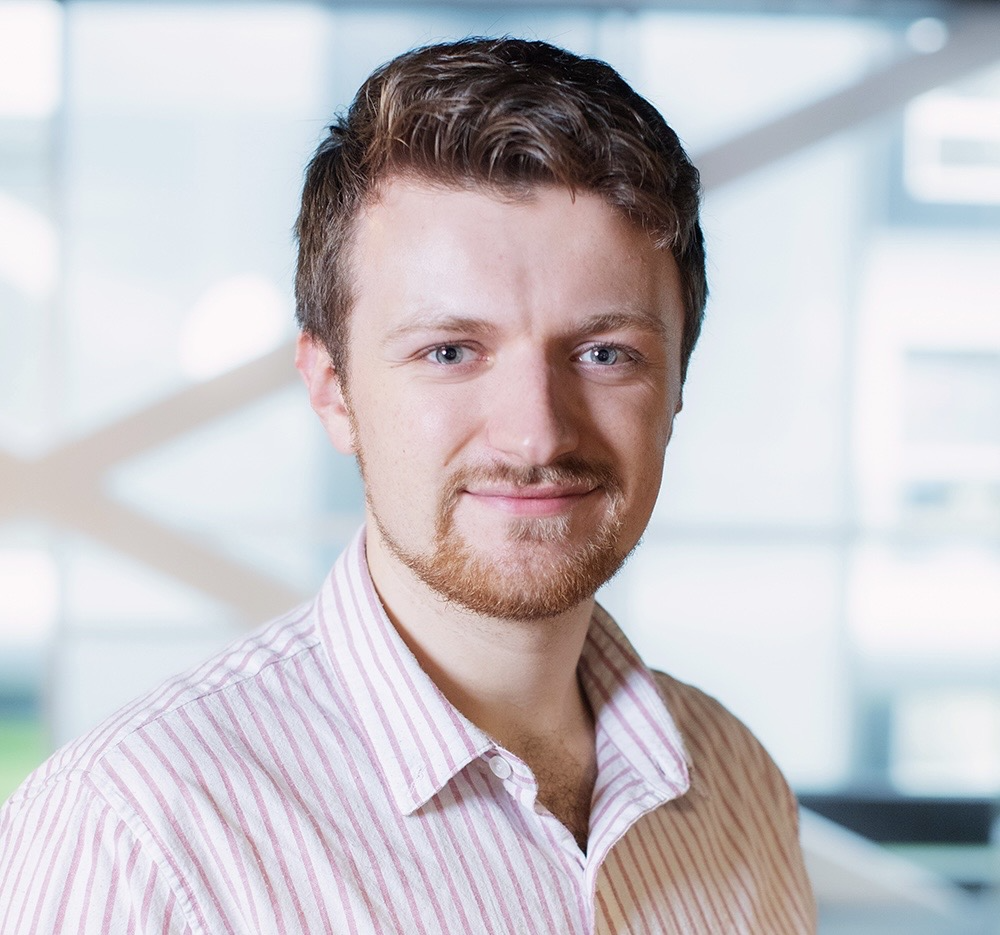
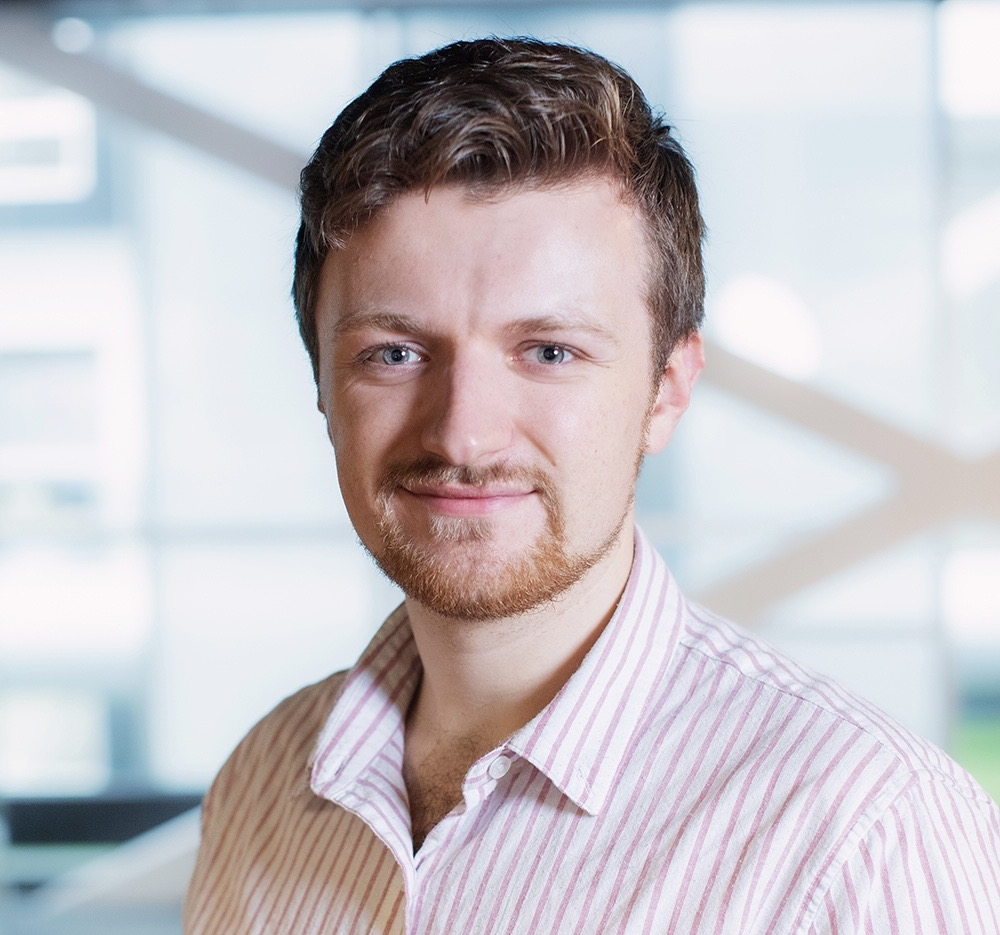
Fixed about page url link. Made external links open new tabs. Made about me page view.

diff --git a/templates/pages/about.html b/templates/pages/about.html
@@ -1,92 +1,167 @@
 <!DOCTYPE html>
 <html lang="en">
+{% extends "base.html" %}
 {% load static %}
 
-<head>
-  <meta charset="UTF-8">
-  <meta name="viewport" content="width=device-width, initial-scale=1.0">
-  <link rel="stylesheet" href="{% static 'pages/css/home.css' %}">
-  <link href="https://cdn.jsdelivr.net/npm/bootstrap@5.3.5/dist/css/bootstrap.min.css" rel="stylesheet"
-    integrity="sha384-SgOJa3DmI69IUzQ2PVdRZhwQ+dy64/BUtbMJw1MZ8t5HZApcHrRKUc4W0kG879m7" crossorigin="anonymous">
-  <title>Nathan Edwards</title>
-</head>
+{% block stylesheets %}
+<link rel="stylesheet" href="{% static 'pages/css/about.css' %}">
+{% endblock %}
 
-<body>
-  <header>
-    <div id="top-banner" class="d-flex align-items-center justify-content-between">
-      <div id="quick-bar-left" class="d-flex align-items-center justify-content-between">
-        <img id="bear-pic" src="{% static 'pages/img/bear.png' %}" />
-        <a href="{% url 'home' %}">Home</a>
-        <a href="https://en.wikipedia.org/wiki/Cocaine_Bear_(bear)">About</a>
-      </div>
-      <div id="quick-bar-right" class="d-flex align-items-center justify-content-between">
-        <a href="https://github.com/NathanEdwardsUK"><img id="github-logo"
-            src="{% static 'pages/img/github-logo.png' %}" />
-        </a>
-        <a href="https://www.linkedin.com/in/nathan-e-95155214b"><img id="linkedin-logo"
-            src="{% static 'pages/img/linkedin-logo.png' %}" /></a>
-      </div>
-    </div>
-  </header>
 
-  <main>
-    <div class="container-fluid py-4 px-0">
-      <h1>Nathan Edwards</h1>
-    </div>
-    <div class="container-fluid py-4 px-0">
-      <p>
-        Hello! I'm a software developer and former trader with 5 years experience working at top-tier
-        algorithmic-trading
-        firm Flow Traders.
-        I've been head of multiple desks, product owner of critical trading applications and a member of the Trader Tech
-        Team.
-        I specialised in designing, building and operating world-class higly-automated trading systems.
-        <br><br>
-        I strongly believe in the importance of continuous learning and I built this website both to demonstrate what I
-        know and as a learning project in itself to discover the wonders of web development.
-      </p>
-    </div>
-    <div class="container-fluid py-4 px-0">
-      <button class="btn rounded btn-light">
-        <a href="https://en.wikipedia.org/wiki/Cocaine_Bear_(bear)">About Me</a>
-      </button>
-    </div>
-    <div class="container-fluid py-4 px-0">
-      <div class="container-fluid py-4 px-0">
-        <h3>Projects:</h3>
+{% block main %}
+<main>
+  <div class="container-fluid py-4">
+    <h1>About Me</h1>
+  </div>
+  <div class="container-fluid py-4 px-0">
+    <div class="row">
+      <div class="d-flex col-md-4 order-md-2 pb-4 ml-2 justify-content-center" id="portrait-container">
+        <img id="portrait" src="{% static 'pages/img/portrait.png' %}">
       </div>
-      <div class="container-fluid py-2 px-2 border border-light rounded">
-        <p>Conway's Game of Life</p>
-        <div class="d-flex mb-3 justify-content-center" id="gol-canvas-container">
-          <canvas id="gol-canvas"></canvas>
-        </div>
-        <p>
-          Described as a "zero player game" by it's creator, mathematician John Conway,
-          the <a href="https://en.wikipedia.org/wiki/Conway%27s_Game_of_Life">Game of Life</a> composes of a grid of
-          cells, which are either dead or alive, and has a simple set of rules
-          which
-          decide whether each cell will be alive or dead in the next turn.<br><br>
-          Conway invented the game as a demonstration that simple rules and the right starting conditions
-          can lead to chaotic and even self replicating systems.<br><br>
-          As a mathematics undergrad I was fascinated by this concept. <a href="{% url 'sandbox' %}">Checkout my sandbox
-            implementation here</a>. You can play around with setting up your own patterns and seeing how the game
-          evolves, or choose from a dropdown list of amazing community discovered automata like the ones you see above.
+      <div class="col-md-8 order-md-1 py-0 align-items-center align-middle justify-content-center">
+        <p class="align-middle">
+          Former senior trader and product owner at top-tier algorithmic trading firm
+          with strong technical background. Skilled in designing, building and operating
+          world-class automated trading systems. After reevaluating my career goals I
+          decided to make societal benefit my primary professional priority. I am
+          looking for a software developer role at a dynamic, highly innovative company
+          with a compelling and impactful mission.
         </p>
       </div>
-
     </div>
-  </main>
+  </div>
 
-  <footer class="d-flex justify-content-center pt-5">
-    <div id="bottom-banner" class="d-flex flex-column align-items-center justify-content-between">
-      <p>Feel free to reach out!</p>
-      <div class="d-flex align-items-center justify-content-center">
-        <button class="btn rounded btn-light"><a href="{% url 'contact' %}">Contact</a></button>
+
+  <div class="container-fluid pb-4 px-0">
+    <div class="row">
+      <div class="col-md-8 order-sm-2 pb-4">
+        <div class="container-fluid py-0 px-4">
+          <!-- <h5><strong>Experience</strong></h5> -->
+          <div class="container-fluid px-0 py-2 justify-content-between">
+            <div class="experience-header d-flex">
+              <div class="company-logo-container">
+                <img id="flow-logo" src="{% static 'pages/img/flow-logo.jpeg' %}">
+              </div>
+              <div class="d-flex h-100 p-0 m-0 flex-column">
+                <strong class="m-0">Trader</strong>
+                <small>Flow Traders</small>
+              </div>
+            </div>
+            <div class="py-3">
+              <p class="experience-date-range m-0">March 2019 - March 2024</p>
+            </div>
+            <div class="experience-content">
+              <p>
+                Flow Traders is a high-frequency trading firm and leading player in European markets.
+              </p>
+              <!-- <p>
+                At Flow Traders I headed our US equities desk, where we consistently achieved leading
+                market share in Europe, and co-headed our internal futures hedging desk. Additionally,
+                I’ve served as product owner for five applications including (concurrently) our
+                business-critical Java trading engine and C++ market data platform.
+              </p> -->
+              <ul>
+                <li>Head of desk trading European listed ETFs with US equity underlyings</li>
+                <li>Co-head of futures hedging desk</li>
+                <li>Standardised and automated company wide pricing of hedging costs</li>
+                <li>Product owner of numerous applications including business-critical trading engine
+                  and market data platform
+                </li>
+                <li>Trader tech team member; group of traders with specialist knowledge in tech stack</li>
+                <li>Technical interview team</li>
+              </ul>
+            </div>
+          </div>
+
+          <div class="container-fluid px-0 py-2 justify-content-between">
+            <div class="d-flex">
+              <div class="d-flex h-100 p-0 m-0 flex-column">
+                <strong class="m-0">Garden Leave</strong>
+              </div>
+            </div>
+            <div class="py-3">
+              <p class="experience-date-range m-0">March 2024 - March 2025</p>
+            </div>
+            <div class="experience-content">
+              <p>
+                During a one year non-compete agreement I undertook a number of personal and professional projects.
+              </p>
+              <ul>
+                <li>Trading research project</li>
+                <li>Self taught C# [VS Code]</li>
+                <li>Participated in and fully completed, my first Advent of Code</li>
+                <li>Completed datastructures and algorithms course</li>
+                <li>Self taught web development based on Django framework</li>
+              </ul>
+            </div>
+          </div>
+
+        </div>
       </div>
-    </div>
-  </footer>
-</body>
+      <div class="col-md-4 order-sm-1 pb-4" id="tech-stack-container">
+        <div class="container-fluid py-2 border border-light rounded">
+          <p>Tech Stack</p>
+          <div class="d-flex flex-wrap gap-3">
+            <div class="tech-item">
+              <p>Python</p>
+            </div>
+            <div class="tech-item">
+              <p>Java</p>
+            </div>
+            <div class="tech-item">
+              <p>C#</p>
+            </div>
+            <div class="tech-item">
+              <p>VBA</p>
+            </div>
+            <div class="tech-item">
+              <p>HTML</p>
+            </div>
+            <div class="tech-item">
+              <p>CSS</p>
+            </div>
+            <div class="tech-item">
+              <p>JS</p>
+            </div>
+            <div class="tech-item">
+              <p>Bootstrap</p>
+            </div>
+            <div class="tech-item">
+              <p>Django</p>
+            </div>
+            <div class="tech-item">
+              <p>MySQL</p>
+            </div>
+            <div class="tech-item">
+              <p>PostgreSQL</p>
+            </div>
+            <div class="tech-item">
+              <p>Clickhouse</p>
+            </div>
+            <div class="tech-item">
+              <p>Git</p>
+            </div>
+            <div class="tech-item">
+              <p>Jira</p>
+            </div>
+            <div class="tech-item">
+              <p>Bitbucket</p>
+            </div>
+            <div class="tech-item">
+              <p>Excel</p>
+            </div>
+          </div>
+        </div>
+      </div>
 
-<script type="module" src="{% static 'game_of_life/js/gol_home.js' %}"></script>
+    </div>
+
+
+  </div>
+</main>
+{% endblock %}
+
+{% block scripts %}
+{% endblock %}
 
 </html>

diff --git a/templates/base.html b/templates/base.html
@@ -10,9 +10,11 @@
   {% endblock stylesheets %}
   <link href="https://cdn.jsdelivr.net/npm/bootstrap@5.3.5/dist/css/bootstrap.min.css" rel="stylesheet"
     integrity="sha384-SgOJa3DmI69IUzQ2PVdRZhwQ+dy64/BUtbMJw1MZ8t5HZApcHrRKUc4W0kG879m7" crossorigin="anonymous">
+
   {% block title %}
   <title>Nathan Edwards</title>
   {% endblock title %}
+  <link rel="icon" type="image/x-icon" href="{% static 'pages/img/dev.png' %}">
 </head>
 
 <body>
@@ -21,13 +23,13 @@
       <div id="quick-bar-left" class="d-flex align-items-center justify-content-between">
         <img id="bear-pic" src="{% static 'pages/img/bear.png' %}" />
         <a href="{% url 'home' %}">Home</a>
-        <a href="https://en.wikipedia.org/wiki/Cocaine_Bear_(bear)">About</a>
+        <a href="{% url 'about' %}">About</a>
       </div>
       <div id="quick-bar-right" class="d-flex align-items-center justify-content-between">
-        <a href="https://github.com/NathanEdwardsUK"><img id="github-logo"
+        <a href="https://github.com/NathanEdwardsUK" target="_blank"><img id="github-logo"
             src="{% static 'pages/img/github-logo.png' %}" />
         </a>
-        <a href="https://www.linkedin.com/in/nathan-e-95155214b"><img id="linkedin-logo"
+        <a href="https://www.linkedin.com/in/nathan-e-95155214b" target="_blank"><img id="linkedin-logo"
             src="{% static 'pages/img/linkedin-logo.png' %}" /></a>
       </div>
     </div>

diff --git a/static/pages/css/about.css b/static/pages/css/about.css
@@ -1,0 +1,45 @@
+#portrait {
+  width: 250px;
+  object-fit: contain;
+  vertical-align: bottom !important;
+}
+
+.row {
+  margin: 0 !important;
+}
+
+.tech-item {
+  background-color: rgb(24, 24, 24);
+  text-align: center;
+  padding: 5px;
+}
+
+.tech-item p {
+  margin-bottom: 0 !important;
+}
+
+.experience-header {
+  height: 40px;
+}
+
+.company-logo-container {
+  margin: 0 15px 0 0;
+}
+
+#flow-logo {
+  height: 100%;
+  border: solid;
+  border-width: 1px;
+  border-color: rgb(34, 34, 34);
+}
+
+.experience-date-range {
+  color: rgb(176, 176, 176);
+  font-size: 0.875rem;
+}
+
+.experience-content p,
+.experience-content li {
+  font-size: 0.875rem;
+  letter-spacing: -0.25px;
+}

diff --git a/static/game_of_life/css/sandbox.css b/static/game_of_life/css/sandbox.css
@@ -2,6 +2,13 @@ html {
   touch-action: manipulation;
 }
 
+html,
+body {
+  margin: 0;
+  height: 100%;
+  overflow: hidden;
+}
+
 header {
   z-index: 2;
 }
@@ -30,8 +37,8 @@ main {
 
 #speed-slider-container {
   z-index: 2;
-  position: relative;
-  top: 50px;
+  position: absolute;
+  top: 70px;
   right: 20px;
 }
 

diff --git a/templates/pages/home.html b/templates/pages/home.html
@@ -28,7 +28,7 @@
   </div>
   <div class="container-fluid py-4 px-0">
     <button class="btn rounded btn-light">
-      <a href="https://en.wikipedia.org/wiki/Cocaine_Bear_(bear)">About Me</a>
+      <a href="{% url 'about' %}">About Me</a>
     </button>
   </div>
   <div class="container-fluid py-4 px-0">

diff --git a/templates/game_of_life/sandbox.html b/templates/game_of_life/sandbox.html
@@ -6,7 +6,9 @@
 <link rel="stylesheet" href="{% static 'game_of_life/css/sandbox.css' %}">
 {% endblock %}
 
-{% block title %}Game of Life{% endblock %}
+{% block title %}
+<title>Game of Life</title>
+{% endblock title %}
 
 {% block main %}
 <main>

diff --git a/pages/urls.py b/pages/urls.py
@@ -9,7 +9,7 @@ from .views import (
 
 urlpatterns = [
     path("", home_view, name="home"),
-    path("about/", home_view, name="about"),
+    path("about/", about_view, name="about"),
     path("prime/", prime_photo_view, name="prime_photo"),
     path("professional/", professional_view, name="professional"),
 ]
